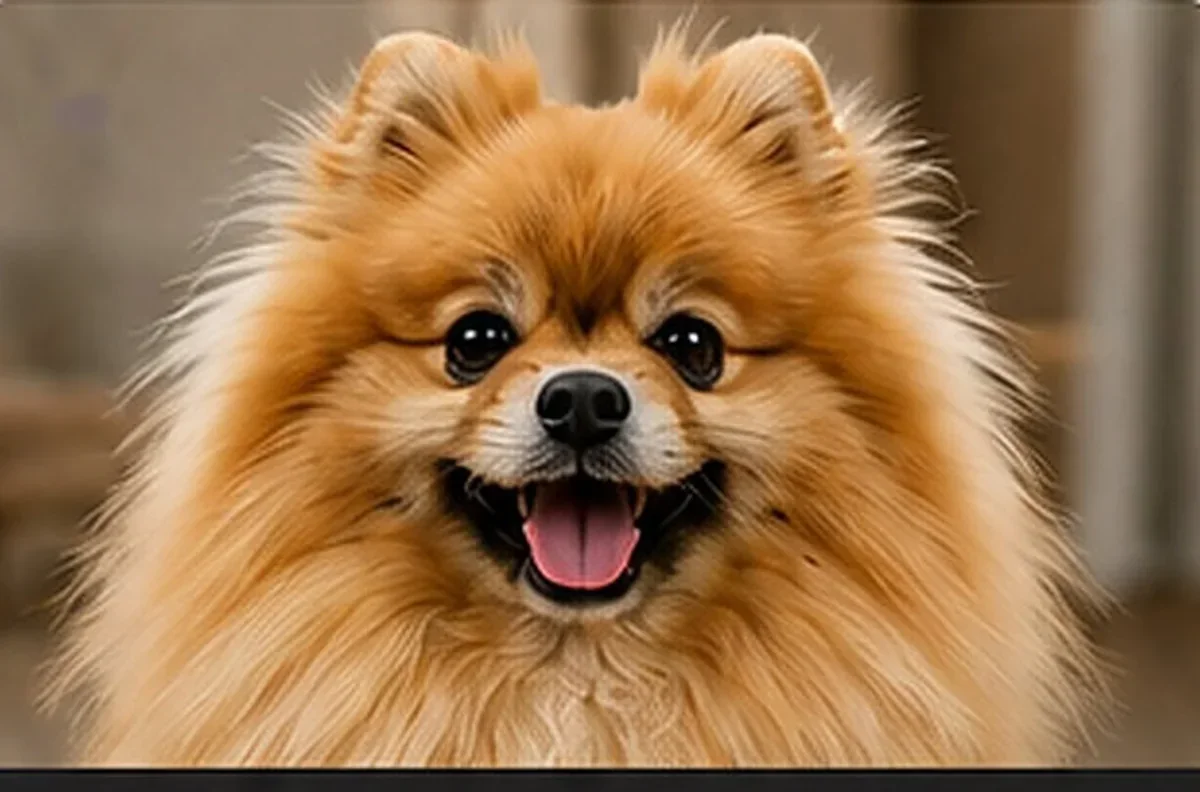
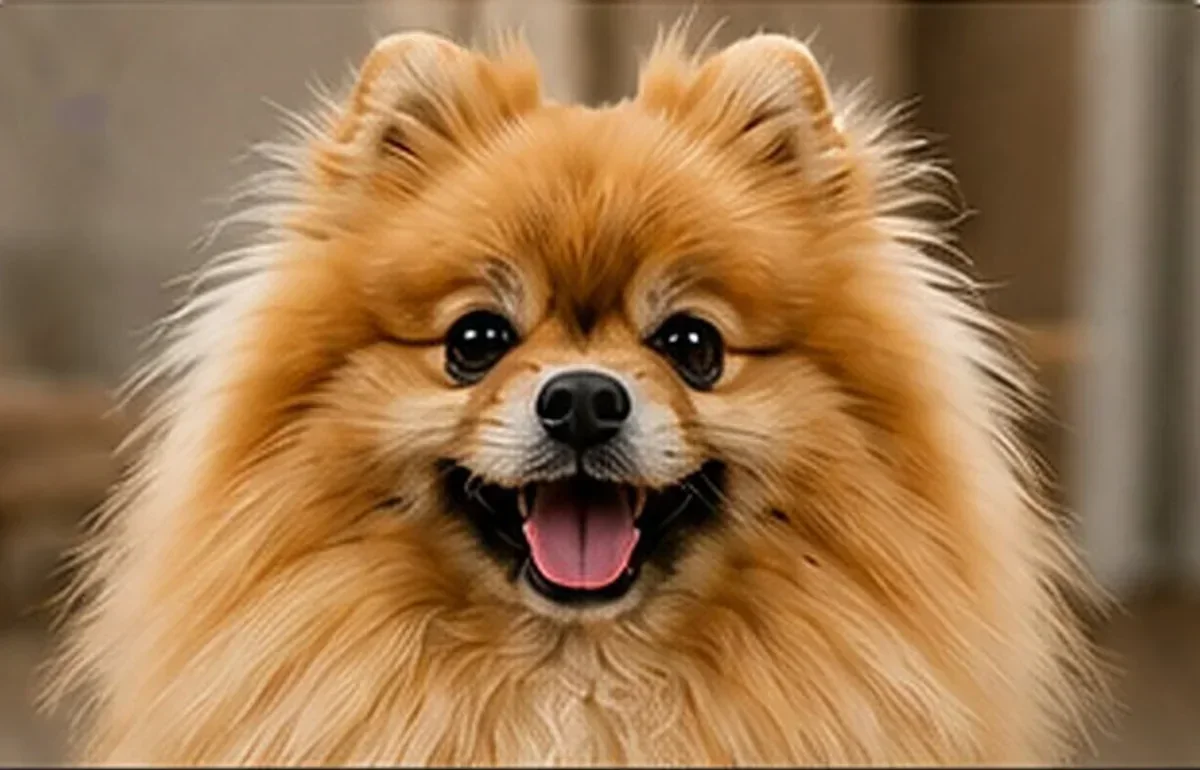
Refine service and blog media fixes

diff --git a/site.config.js b/site.config.js
@@ -41,12 +41,12 @@ window.SITE_CONFIG = {
     introHtml: 'From refreshing baths to complete makeovers,<br>we provide exceptional care tailored to<br>your pet’s unique needs.',
     linkLabel: 'VIEW ALL SERVICES',
     cards: [
-      { number:'01', title:'BATH & BRUSH', descriptionHtml:'A relaxing bath, gentle cleanse<br>and thorough brushing for a<br>fresh, healthy coat.', image:'assets/service-hachiko-relaxed.webp', imageAlt:'Relaxed Hachiko-like dog enjoying a full grooming spa treatment', style:'green' },
+      { number:'01', title:'BATH & BRUSH', descriptionHtml:'A relaxing bath, gentle cleanse<br>and thorough brushing for a<br>fresh, healthy coat.', image:'assets/service-bath-user.webp', imageAlt:'White terrier wrapped in a spa robe after a bath', style:'green' },
       { number:'02', title:'HAIRCUT & STYLING', descriptionHtml:'Custom haircuts and styling<br>designed to bring out your pet’s<br>best look.', image:'assets/service-hair.jpg', imageAlt:'Fluffy pomeranian dog', style:'black', featured:true },
       { number:'03', title:'NAIL CLIPPING', descriptionHtml:'Safe, precise nail trimming<br>to keep your pet comfortable<br>and confident.', image:'assets/service-nails.jpg', imageAlt:'Small dog having nails clipped', style:'orange' },
       { number:'04', title:'TEETH CLEANING', descriptionHtml:'Gentle oral care for fresher<br>breath and a happier,<br>healthier smile.', image:'assets/service-teeth-cleaning.webp', imageAlt:'Smiling white dog ready for teeth cleaning', style:'green' },
       { number:'05', title:'DE-SHEDDING', descriptionHtml:'A deep coat treatment to<br>remove loose fur and leave<br>your pet feeling lighter.', image:'assets/hairless-chinese-crested.webp', imageAlt:'Smiling hairless dog with its tongue out', style:'black', featured:true },
-      { number:'06', title:'PUPPY INTRO', descriptionHtml:'A calm first visit designed<br>to build trust and make<br>grooming feel easy.', image:'assets/tiny-puppy.webp', imageAlt:'Tiny fluffy puppy', style:'orange' },
+      { number:'06', title:'PUPPY INTRO', descriptionHtml:'A calm first visit designed<br>to build trust and make<br>grooming feel easy.', image:'assets/service-puppy-aussie.webp', imageAlt:'Australian Shepherd puppy sitting calmly on a grooming table', style:'orange' },
       { number:'07', title:'COMBO', descriptionHtml:'Bundle favorite services<br>into one polished spa-day<br>appointment.', image:'assets/service-combo-funny.webp', imageAlt:'Golden retriever enjoying a combo grooming spa treatment', style:'green' },
       { number:'08', title:'A LA CARTE', descriptionHtml:'Pick any single service<br>from our grooming menu<br>as a quick touch-up.', image:'assets/service-a-la-carte-pitbull.webp', imageAlt:'Pitbull enjoying a la carte grooming touch-ups', style:'black', featured:true },
       { number:'09', title:'ADD-ON SERVICES', descriptionHtml:'Add extra care to any<br>service on our grooming<br>menu.', image:'assets/service-add-ons-black-retriever.webp', imageAlt:'Black retriever enjoying extra spa add-on services', style:'orange' },
@@ -67,9 +67,9 @@ window.SITE_CONFIG = {
   gallery: {
     kicker:'FOLLOW OUR JOURNEY!', heading:'ON INSTAGRAM', linkLabel:'VIEW MORE ON INSTAGRAM', phoneImage:'assets/instagram-phone-transparent.webp', phoneAlt:'Grüm Instagram profile on a phone',
     images:[
-      {src:'assets/gallery-12943750.webp',alt:'Curious terrier in a bubble bath'}, {src:'assets/gallery-17802173.webp',alt:'Two smiling poodles surrounded by bubbles'},
-      {src:'assets/gallery-36174558.webp',alt:'Small fluffy dog bathing in a red bucket'}, {src:'assets/gallery-6131151.webp',alt:'Tiny dog being shampooed'},
-      {src:'assets/gallery-6816870.webp',alt:'Yorkshire terrier getting a haircut'}, {src:'assets/gallery-485294.webp',alt:'Chihuahua wearing a shampoo foam hat'},
+      {src:'assets/ig-1.jpg',alt:'Smiling dog enjoying a bath in the studio'}, {src:'assets/ig-2.jpg',alt:'Dog wrapped in a towel after a spa bath'},
+      {src:'assets/ig-4.jpg',alt:'Golden dog surrounded by bath bubbles'}, {src:'assets/ig-5.jpg',alt:'Small groomed dog posing with a bow tie'},
+      {src:'assets/ig-3.jpg',alt:'Premium grooming products arranged on towels'}, {src:'assets/ig-6.jpg',alt:'Warm quiet grooming studio interior'},
     ],
   },
   finalCta: { kicker:'READY FOR THEIR', heading:'BEST DAY EVER?', body:'We can’t wait to meet your best friend.', button:'BOOK APPOINTMENT', buttonSmall:'CLICK TO BOOK', image:'assets/footer-dog-cutout.webp', imageAlt:'Happy golden retriever' },
@@ -119,7 +119,7 @@ window.SITE_CONFIG = {
     'ONE-ON-ONE CARE':'INDIVIDUELLE BETREUUNG','Each pet enjoys our':'Jedes Tier bekommt unsere','undivided attention.':'volle Aufmerksamkeit.',
     'OUR SERVICES':'UNSERE SERVICES','DOG GROOMING,':'HUNDEPFLEGE,','BATHING & COAT CARE':'BAD & FELLPFLEGE',
     'From refreshing baths to complete makeovers,':'Vom erfrischenden Bad bis zum kompletten Styling,','we provide exceptional care tailored to':'wir passen jede Behandlung individuell','your pet’s unique needs.':'an die Bedürfnisse deines Hundes an.','VIEW ALL SERVICES':'ALLE SERVICES ANSEHEN',
-    'THE GRÜM EXPERIENCE':'DAS GRÜM ERLEBNIS','MORE THAN A GROOM.':'MEHR ALS PFLEGE.','IT’S A MOMENT OF':'EIN MOMENT VOLLER','CARE.':'FÜRSORGE.','LEARN MORE ABOUT US':'MEHR ÜBER UNS',
+    'THE GRÜM EXPERIENCE':'DAS GRÜM ERLEBNIS','CARE THEY CAN FEEL.':'PFLEGE, DIE SIE SPÜREN.','MORE THAN A GROOM.':'MEHR ALS PFLEGE.','IT’S A MOMENT OF':'EIN MOMENT VOLLER','CARE.':'FÜRSORGE.','LEARN MORE ABOUT US':'MEHR ÜBER UNS',
     'FOLLOW OUR JOURNEY!':'FOLGE UNSERER REISE!','ON INSTAGRAM':'AUF INSTAGRAM','VIEW MORE ON INSTAGRAM':'MEHR AUF INSTAGRAM',
     'READY FOR THEIR':'BEREIT FÜR DEN','BEST DAY EVER?':'BESTEN TAG?','We can’t wait to meet your best friend.':'Wir freuen uns darauf, deinen besten Freund kennenzulernen.','We can\'t wait to meet your best friend.':'Wir freuen uns darauf, deinen besten Freund kennenzulernen.','CLICK TO BOOK':'JETZT BUCHEN','Privacy Policy':'Datenschutz','Terms & Conditions':'AGB',
     'BOOK THEIR BEST DAY':'BUCHE DEN BESTEN TAG','REQUEST AN APPOINTMENT.':'TERMIN ANFRAGEN.','REQUEST APPOINTMENT':'TERMIN ANFRAGEN',
@@ -166,7 +166,7 @@ window.SITE_CONFIG = {
     'ONE-ON-ONE CARE':'ATENCIÓN INDIVIDUAL','Each pet enjoys our':'Cada mascota recibe','undivided attention.':'toda nuestra atención.',
     'OUR SERVICES':'NUESTROS SERVICIOS','DOG GROOMING,':'PELUQUERÍA CANINA,','BATHING & COAT CARE':'BAÑO & CUIDADO DEL PELO',
     'From refreshing baths to complete makeovers,':'Desde baños refrescantes hasta cambios completos,','we provide exceptional care tailored to':'adaptamos cada servicio a','your pet’s unique needs.':'las necesidades únicas de tu mascota.','VIEW ALL SERVICES':'VER TODOS LOS SERVICIOS',
-    'THE GRÜM EXPERIENCE':'LA EXPERIENCIA GRÜM','MORE THAN A GROOM.':'MÁS QUE PELUQUERÍA.','IT’S A MOMENT OF':'UN MOMENTO DE','CARE.':'CUIDADO.','LEARN MORE ABOUT US':'CONÓCENOS MEJOR',
+    'THE GRÜM EXPERIENCE':'LA EXPERIENCIA GRÜM','CARE THEY CAN FEEL.':'CUIDADO QUE SE SIENTE.','MORE THAN A GROOM.':'MÁS QUE PELUQUERÍA.','IT’S A MOMENT OF':'UN MOMENTO DE','CARE.':'CUIDADO.','LEARN MORE ABOUT US':'CONÓCENOS MEJOR',
     'FOLLOW OUR JOURNEY!':'¡SIGUE NUESTRO CAMINO!','ON INSTAGRAM':'EN INSTAGRAM','VIEW MORE ON INSTAGRAM':'VER MÁS EN INSTAGRAM',
     'READY FOR THEIR':'¿LISTO PARA SU','BEST DAY EVER?':'MEJOR DÍA?','We can’t wait to meet your best friend.':'Tenemos muchas ganas de conocer a tu mejor amigo.','We can\'t wait to meet your best friend.':'Tenemos muchas ganas de conocer a tu mejor amigo.','CLICK TO BOOK':'HAZ CLIC PARA RESERVAR','Privacy Policy':'Privacidad','Terms & Conditions':'Términos y condiciones',
     'BOOK THEIR BEST DAY':'RESERVA SU MEJOR DÍA','REQUEST AN APPOINTMENT.':'SOLICITAR UNA CITA.','REQUEST APPOINTMENT':'SOLICITAR CITA',

diff --git a/blog.html b/blog.html
@@ -39,7 +39,7 @@
         <h2 class="content-heading">GROOMING <span>GUIDES &amp; TIPS</span></h2>
 
         <div class="blog-list">
-          <article class="blog-post" tabindex="0" role="button" data-blog-title="HOW OFTEN SHOULD YOU ACTUALLY BATHE YOUR DOG?" data-blog-category="GROOMING BASICS" data-blog-image="assets/blog-grooming-basics-westie.webp" data-blog-detail-image="assets/blog-grooming-basics-westie.webp" data-blog-body="Most dogs do well with a bath every four to six weeks, but the right schedule depends on coat type, skin sensitivity, activity level, and how much time they spend outside.|Short-coated dogs may need less frequent baths, while curly, long, or double-coated dogs often need more regular professional care to prevent buildup and matting.|If your dog smells, feels greasy, scratches more than usual, or leaves extra dirt on bedding, it may be time for a bath. If the skin looks dry or irritated, we can help choose a gentler rhythm.">
+          <article class="blog-post" tabindex="0" role="button" data-blog-title="HOW OFTEN SHOULD YOU ACTUALLY BATHE YOUR DOG?" data-blog-category="GROOMING BASICS" data-blog-image="assets/blog-grooming-basics-westie.webp" data-blog-detail-image="assets/blog-detail-grooming-basics-wide.webp" data-blog-body="Most dogs do well with a bath every four to six weeks, but the right schedule depends on coat type, skin sensitivity, activity level, and how much time they spend outside.|Short-coated dogs may need less frequent baths, while curly, long, or double-coated dogs often need more regular professional care to prevent buildup and matting.|If your dog smells, feels greasy, scratches more than usual, or leaves extra dirt on bedding, it may be time for a bath. If the skin looks dry or irritated, we can help choose a gentler rhythm.">
             <img src="assets/blog-grooming-basics-westie.webp" alt="Realistic white terrier wrapped in a spa robe" loading="lazy" />
             <div class="blog-post-body">
               <p class="blog-date">GROOMING BASICS</p>
@@ -48,7 +48,7 @@
             </div>
           </article>
 
-          <article class="blog-post" tabindex="0" role="button" data-blog-title="BRUSHING BETWEEN VISITS: A 5-MINUTE ROUTINE THAT WORKS" data-blog-category="COAT CARE" data-blog-image="assets/blog-brushing-clean.webp" data-blog-detail-image="assets/blog-coat-care-detail-realistic.webp" data-blog-body="A short brushing routine a few times a week can make a huge difference, especially around the ears, chest, tail, belly, and legs where mats start fastest.|Use slow passes, work in small sections, and stop if your dog gets uncomfortable. The goal is consistency, not a wrestling match.|Regular brushing helps keep appointments calmer because the coat is easier to wash, dry, and style. It also lets you spot skin changes before they become bigger problems.">
+          <article class="blog-post" tabindex="0" role="button" data-blog-title="BRUSHING BETWEEN VISITS: A 5-MINUTE ROUTINE THAT WORKS" data-blog-category="COAT CARE" data-blog-image="assets/blog-brushing-clean.webp" data-blog-detail-image="assets/blog-detail-coat-care-wide.webp" data-blog-body="A short brushing routine a few times a week can make a huge difference, especially around the ears, chest, tail, belly, and legs where mats start fastest.|Use slow passes, work in small sections, and stop if your dog gets uncomfortable. The goal is consistency, not a wrestling match.|Regular brushing helps keep appointments calmer because the coat is easier to wash, dry, and style. It also lets you spot skin changes before they become bigger problems.">
             <img src="assets/blog-brushing-clean.webp" alt="Fluffy pomeranian dog" loading="lazy" />
             <div class="blog-post-body">
               <p class="blog-date">COAT CARE</p>
@@ -57,7 +57,7 @@
             </div>
           </article>
 
-          <article class="blog-post" tabindex="0" role="button" data-blog-title="SIGNS YOUR DOG'S NAILS ARE OVERDUE FOR A TRIM" data-blog-category="NAIL &amp; PAW CARE" data-blog-image="assets/blog-nails-clean.webp" data-blog-detail-image="assets/blog-nail-detail-realistic.webp" data-blog-body="If you hear clicking on hard floors, see nails touching the ground while your dog stands, or notice curling tips, it is probably time for a trim.|Long nails can change posture and make walking less comfortable. Some dogs also start slipping more because their paws cannot sit naturally.|For nervous pets, shorter and more frequent nail appointments can be easier than waiting until the nails are very long.">
+          <article class="blog-post" tabindex="0" role="button" data-blog-title="SIGNS YOUR DOG'S NAILS ARE OVERDUE FOR A TRIM" data-blog-category="NAIL &amp; PAW CARE" data-blog-image="assets/blog-nails-clean.webp" data-blog-detail-image="assets/blog-detail-nail-care-wide.webp" data-blog-body="If you hear clicking on hard floors, see nails touching the ground while your dog stands, or notice curling tips, it is probably time for a trim.|Long nails can change posture and make walking less comfortable. Some dogs also start slipping more because their paws cannot sit naturally.|For nervous pets, shorter and more frequent nail appointments can be easier than waiting until the nails are very long.">
             <img src="assets/blog-nails-clean.webp" alt="Small dog having nails clipped" loading="lazy" />
             <div class="blog-post-body">
               <p class="blog-date">NAIL &amp; PAW CARE</p>
@@ -66,7 +66,7 @@
             </div>
           </article>
 
-          <article class="blog-post" tabindex="0" role="button" data-blog-title="WHAT TO EXPECT AT YOUR DOG'S FIRST GRÜM APPOINTMENT" data-blog-category="FIRST VISIT" data-blog-image="assets/blog-first-visit.webp" data-blog-detail-image="assets/blog-first-visit.webp" data-blog-body="The first visit starts with a quick check-in so we can learn about your dog's coat, comfort level, health notes, and the service you want.|From there, we move at your pet's pace. A one-on-one appointment keeps things calmer because your dog is not waiting in a crowded space.|After the groom, we will let you know how the coat did, what maintenance helps at home, and when the next appointment should be.">
+          <article class="blog-post" tabindex="0" role="button" data-blog-title="WHAT TO EXPECT AT YOUR DOG'S FIRST GRÜM APPOINTMENT" data-blog-category="FIRST VISIT" data-blog-image="assets/blog-first-visit.webp" data-blog-detail-image="assets/blog-detail-first-visit-wide.webp" data-blog-body="The first visit starts with a quick check-in so we can learn about your dog's coat, comfort level, health notes, and the service you want.|From there, we move at your pet's pace. A one-on-one appointment keeps things calmer because your dog is not waiting in a crowded space.|After the groom, we will let you know how the coat did, what maintenance helps at home, and when the next appointment should be.">
             <img src="assets/blog-first-visit.webp" alt="A puppy meeting its groomer for the first time" loading="lazy" />
             <div class="blog-post-body">
               <p class="blog-date">FIRST VISIT</p>

diff --git a/gallery.html b/gallery.html
@@ -28,7 +28,7 @@
           <a class="btn btn-primary" href="https://www.instagram.com/" target="_blank" rel="noreferrer">FOLLOW ON INSTAGRAM</a>
         </div>
         <div class="page-hero-photo">
-          <img src="assets/gallery-poodle-bowtie.webp" alt="Freshly groomed poodle mix with a bow tie and bubbles" />
+          <img src="assets/gallery-485294.webp" alt="Chihuahua wearing a shampoo foam hat" />
         </div>
       </div>
     </section>
@@ -40,18 +40,18 @@
         <p class="content-lede">Tap the Instagram link above for the full feed — here's a sample of what a Grüm visit looks like.</p>
 
         <div class="photo-grid">
-          <div class="photo-tile wide"><img src="assets/ig-1.jpg" alt="Smiling dog enjoying a bath in the studio" loading="lazy" /></div>
-          <div class="photo-tile"><img src="assets/ig-2.jpg" alt="Dog wrapped in a towel after a spa bath" loading="lazy" /></div>
-          <div class="photo-tile"><img src="assets/ig-4.jpg" alt="Golden dog surrounded by bath bubbles" loading="lazy" /></div>
+          <div class="photo-tile wide"><img src="assets/gallery-12943750.webp" alt="Curious terrier in a bubble bath" loading="lazy" /></div>
+          <div class="photo-tile"><img src="assets/gallery-17802173.webp" alt="Two dogs surrounded by bath bubbles" loading="lazy" /></div>
+          <div class="photo-tile"><img src="assets/gallery-36174558.webp" alt="Small fluffy dog bathing in a red bucket" loading="lazy" /></div>
           <div class="photo-tile"><img src="assets/gallery-pitbull-turban.webp" alt="Pitbull wearing a towel turban during a paw trim" loading="lazy" /></div>
-          <div class="photo-tile"><img src="assets/ig-5.jpg" alt="Small groomed dog posing with a bow tie" loading="lazy" /></div>
+          <div class="photo-tile"><img src="assets/gallery-6131151.webp" alt="Dog getting shampooed in the bath" loading="lazy" /></div>
           <div class="photo-tile"><img src="assets/gallery-13085581.webp" alt="Tiny dog on a grooming table with colorful supplies" loading="lazy" /></div>
           <div class="photo-tile"><img src="assets/gallery-dachshund-foam-crown.webp" alt="Dachshund with a foam crown getting towel dried" loading="lazy" /></div>
           <div class="photo-tile"><img src="assets/gallery-black-retriever-facial.webp" alt="Black retriever enjoying a blueberry facial and brushing" loading="lazy" /></div>
           <div class="photo-tile"><img src="assets/gallery-7391070.webp" alt="Long-haired dog getting brushed on a grooming table" loading="lazy" /></div>
           <div class="photo-tile wide"><img src="assets/gallery-19145874.webp" alt="Tall dog waiting near a grooming station" loading="lazy" /></div>
-          <div class="photo-tile"><img src="assets/ig-3.jpg" alt="Premium grooming products arranged on towels" loading="lazy" /></div>
-          <div class="photo-tile"><img src="assets/ig-6.jpg" alt="Warm quiet grooming studio interior" loading="lazy" /></div>
+          <div class="photo-tile"><img src="assets/gallery-19145888.webp" alt="Dog enjoying a salon rinse" loading="lazy" /></div>
+          <div class="photo-tile"><img src="assets/gallery-6816870.webp" alt="Yorkshire terrier showing off a fresh trim" loading="lazy" /></div>
         </div>
       </div>
     </section>

diff --git a/index.html b/index.html
@@ -63,7 +63,7 @@
         <div class="service-carousel" aria-label="Grooming services carousel">
           <div class="service-cards" id="service-cards">
           <article class="service-card card-green" data-service="Bath &amp; Brush" tabindex="0" role="button" aria-label="Book Bath and Brush">
-            <img src="assets/service-hachiko-relaxed.webp" alt="Relaxed Hachiko-like dog enjoying a full grooming spa treatment" loading="lazy" draggable="false" />
+            <img src="assets/service-bath-user.webp" alt="White terrier wrapped in a spa robe after a bath" loading="lazy" draggable="false" />
             <div class="service-info"><div><h3>BATH &amp; BRUSH</h3><p>A relaxing bath, gentle cleanse<br>and thorough brushing for a<br>fresh, healthy coat.</p></div></div>
           </article>
           <article class="service-card card-black featured" data-service="Haircut &amp; Styling" tabindex="0" role="button" aria-label="Book Haircut and Styling">
@@ -100,12 +100,12 @@
         <div class="gallery-title"><p class="kicker">FOLLOW OUR JOURNEY!</p><h2>ON INSTAGRAM</h2></div>
         <a class="gallery-more" href="https://www.instagram.com/" target="_blank" rel="noreferrer">VIEW MORE ON INSTAGRAM <i aria-hidden="true"></i></a>
         <div class="ig-grid">
-          <img src="assets/gallery-12943750.webp" alt="Curious terrier in a bubble bath" loading="lazy" />
-          <img src="assets/gallery-17802173.webp" alt="Two smiling poodles surrounded by bubbles" loading="lazy" />
-          <img src="assets/gallery-36174558.webp" alt="Small fluffy dog bathing in a red bucket" loading="lazy" />
-          <img src="assets/gallery-6131151.webp" alt="Tiny dog being shampooed" loading="lazy" />
-          <img src="assets/gallery-6816870.webp" alt="Yorkshire terrier getting a haircut" loading="lazy" />
-          <img src="assets/gallery-485294.webp" alt="Chihuahua wearing a shampoo foam hat" loading="lazy" />
+          <img src="assets/ig-1.jpg" alt="Smiling dog enjoying a bath in the studio" loading="lazy" />
+          <img src="assets/ig-2.jpg" alt="Dog wrapped in a towel after a spa bath" loading="lazy" />
+          <img src="assets/ig-4.jpg" alt="Golden dog surrounded by bath bubbles" loading="lazy" />
+          <img src="assets/ig-5.jpg" alt="Small groomed dog posing with a bow tie" loading="lazy" />
+          <img src="assets/ig-3.jpg" alt="Premium grooming products arranged on towels" loading="lazy" />
+          <img src="assets/ig-6.jpg" alt="Warm quiet grooming studio interior" loading="lazy" />
         </div>
       </div>
     </section>

diff --git a/services.html b/services.html
@@ -28,7 +28,7 @@
           <button class="btn btn-primary" data-book><span class="phone-icon" aria-hidden="true"></span>BOOK APPOINTMENT</button>
         </div>
         <div class="page-hero-photo">
-          <img src="assets/service-hachiko-relaxed.webp" alt="Relaxed Hachiko-like dog enjoying a full grooming spa treatment" />
+          <img src="assets/services-hachiko-cucumber-eyes.webp" alt="Hachiko-like Akita relaxing with cucumbers over its eyes during a full spa groom" />
         </div>
       </div>
     </section>
@@ -41,7 +41,7 @@
 
         <div class="services-grid" id="all-service-cards">
           <article class="svc-card svc-green" data-service="BATH &amp; BRUSH" tabindex="0" role="button" aria-label="Book Bath and Brush">
-            <img src="assets/service-hachiko-relaxed.webp" alt="Relaxed Hachiko-like dog enjoying a full grooming spa treatment" loading="lazy" />
+            <img src="assets/service-bath-user.webp" alt="White terrier wrapped in a spa robe after a bath" loading="lazy" />
             <div class="svc-body">
               <div><h3>BATH &amp; BRUSH</h3><p>A relaxing bath, gentle cleanse and thorough brushing for a fresh, healthy coat.</p><span class="svc-price">FROM €35</span></div>
             </div>
@@ -74,6 +74,12 @@
             <img src="assets/hairless-chinese-crested.webp" alt="Smiling hairless dog with its tongue out" loading="lazy" />
             <div class="svc-body">
               <div><h3>DE-SHEDDING</h3><p>A deep-coat treatment that cuts loose fur and keeps shedding under control.</p><span class="svc-price">FROM €40</span></div>
+            </div>
+          </article>
+          <article class="svc-card svc-black" data-service="PUPPY INTRO" tabindex="0" role="button" aria-label="Book Puppy Intro">
+            <img src="assets/service-puppy-aussie.webp" alt="Australian Shepherd puppy sitting calmly on a grooming table" loading="lazy" />
+            <div class="svc-body">
+              <div><h3>PUPPY INTRO</h3><p>A calm first visit designed to build trust and make grooming feel easy.</p><span class="svc-price">FROM €25</span></div>
             </div>
           </article>
           <article class="svc-card svc-green" data-service="COMBO" tabindex="0" role="button" aria-label="Book Combo">

diff --git a/enhancements.css b/enhancements.css
@@ -191,7 +191,7 @@ body[data-page="home"] .gallery-inner{
 body[data-page="home"] .phone-mock{
   z-index:30!important;
   pointer-events:auto!important;
-  width:215px!important;
+  width:172px!important;
   height:auto!important;
   overflow:visible!important;
   border-radius:0!important;
@@ -263,10 +263,10 @@ body[data-page="home"] .grum-instagram{position:absolute}
 body[data-page="home"] .grum-instagram .profile,
 body[data-page="home"] .grum-instagram .profile:hover,
 body[data-page="home"] .grum-instagram .profile:focus-visible{
-  left:13.6%;
-  top:16.2%;
-  width:18.5%;
-  height:9.6%;
+  left:19.67%;
+  top:17.74%;
+  width:15.42%;
+  height:9.47%;
   background:transparent;
   box-shadow:none;
   z-index:32;
@@ -274,11 +274,11 @@ body[data-page="home"] .grum-instagram .profile:focus-visible{
 body[data-page="home"] .grum-instagram .profile::before{display:none;content:none}
 body[data-page="home"] .grum-instagram .instagram-message-label{
   position:absolute;
-  left:46.5%;
-  top:32.6%;
+  left:49.6%;
+  top:33.86%;
   z-index:32;
-  width:33.4%;
-  height:3.82%;
+  width:28.5%;
+  height:3.64%;
   display:flex;
   align-items:center;
   justify-content:center;
@@ -292,10 +292,10 @@ body[data-page="home"] .grum-instagram .instagram-message-label{
 }
 html[lang="de"] .grum-instagram .follow,
 html[lang="es"] .grum-instagram .follow{
-  left:14.2%;
-  top:32.6%;
-  width:30.9%;
-  height:3.82%;
+  left:20.18%;
+  top:33.86%;
+  width:25.76%;
+  height:3.64%;
   background:transparent;
   border-radius:1.3cqw;
   z-index:32;
@@ -389,13 +389,13 @@ body[data-page="home"] .instagram-message-label{transform:translateX(-1%)}
 .final-book{
   width:auto!important;
   min-width:238px!important;
-  padding:0 26px 0 54px!important;
+  padding:0 26px!important;
   justify-items:center!important;
   text-align:center!important;
 }
 .final-book strong,
 .final-book small{width:100%;text-align:center}
-.final-book .phone-icon{left:24px!important}
+.final-book .phone-icon{left:22px!important}
 .svc-price{font-weight:650}
 .service-detail-modal[data-service="A LA CARTE"] .service-detail-block:first-of-type,
 .service-detail-modal[data-service="ADD-ON SERVICES"] .service-detail-block:first-of-type{display:none}
